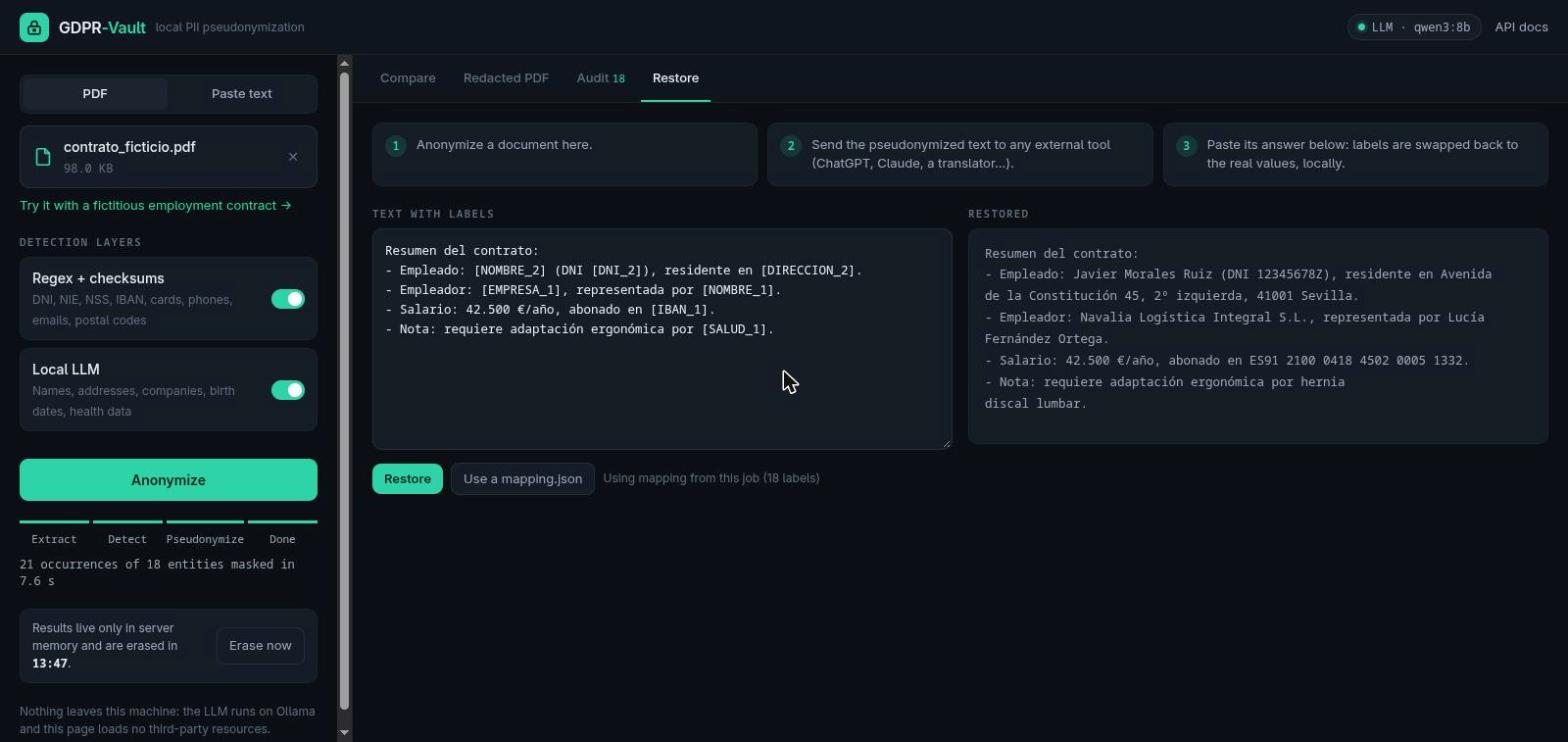
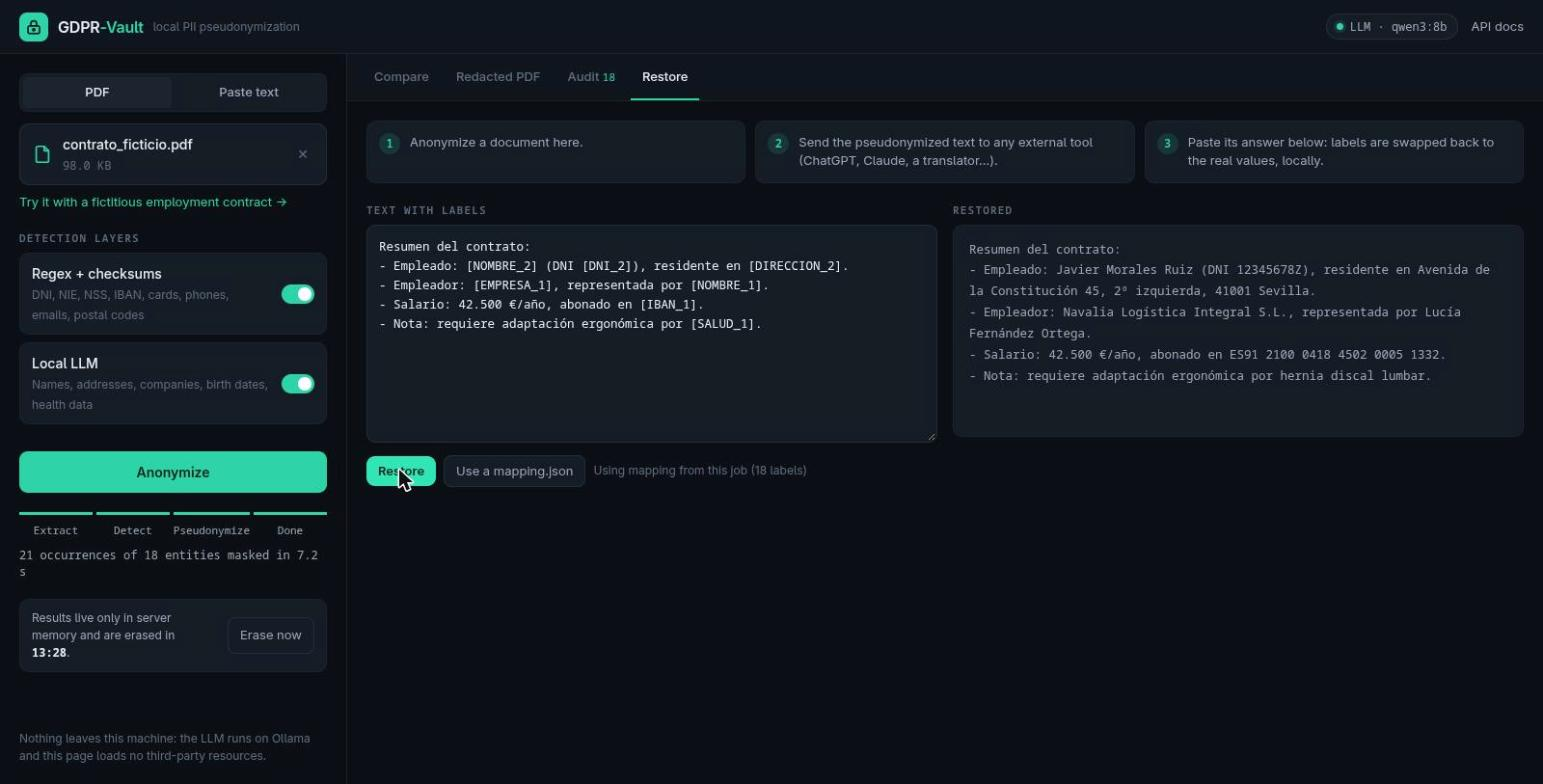
docs: demo GIF, evaluation results and refreshed screenshots

diff --git a/README.md b/README.md
@@ -5,13 +5,16 @@ Upload a contract, payslip or CV. GDPR-Vault finds the personal data with checks
 patterns plus a local LLM, replaces each item with a stable label such as `[NOMBRE_1]` or `[DNI_1]`,
 and returns a properly redacted PDF. Nothing is sent to an external service.
 
+On the labelled evaluation set it masks **99.5% of personal-data characters** and nothing
+that isn't personal data, at about 5 seconds per page on a laptop GPU ([evaluation](#evaluation)).
+
 ![Python](https://img.shields.io/badge/Python-3.12-3776AB?logo=python&logoColor=white)
 ![FastAPI](https://img.shields.io/badge/FastAPI-async-009688?logo=fastapi&logoColor=white)
 ![Ollama](https://img.shields.io/badge/LLM-Ollama%20(local)-black)
 [![CI](https://github.com/davidgj98/gdpr-vault/actions/workflows/ci.yml/badge.svg)](https://github.com/davidgj98/gdpr-vault/actions/workflows/ci.yml)
 ![License](https://img.shields.io/badge/license-MIT-blue)
 
-![Side-by-side comparison of the original and the pseudonymized contract](docs/img/compare.jpg)
+![Demo: a contract is uploaded, its personal data detected and pseudonymized, the PDF redacted and the labels restored](docs/img/demo.gif)
 
 ---
 
@@ -50,9 +53,9 @@ GDPR Art. 4(5). See [GDPR_NOTES.md](GDPR_NOTES.md) for how the design maps to th
 - **Privacy by design**: results are kept in memory and erased after a TTL (15 min by default) or on demand. The UI is held to a strict CSP with no third-party requests (not even web fonts), and API responses are sent with `Cache-Control: no-store`.
 - **Fails loudly**: if Ollama is down, the job still masks the structured identifiers, but the UI and the audit log say plainly that names and addresses were **not** checked.
 
-| Redacted PDF | Audit log | Restore |
-|---|---|---|
-| ![Redacted PDF](docs/img/redacted-pdf.jpg) | ![Audit](docs/img/audit.jpg) | ![Restore](docs/img/restore.jpg) |
+| Compare | Redacted PDF | Audit log | Restore |
+|---|---|---|---|
+| ![Compare](docs/img/compare.jpg) | ![Redacted PDF](docs/img/redacted-pdf.jpg) | ![Audit](docs/img/audit.jpg) | ![Restore](docs/img/restore.jpg) |
 
 ## Quick start
 
@@ -65,7 +68,7 @@ docker compose up --build          # add  -f docker-compose.yml -f docker-compos
 
 Open <http://localhost:8000> and click **"Try it with a fictitious employment contract"**.
 
-The first start downloads the model (`qwen2.5:7b`, about 4.7 GB) into a volume. While that runs,
+The first start downloads the model (`qwen3:8b`, about 5.2 GB) into a volume. While that runs,
 the header shows the LLM as unavailable and the app works in regex-only mode.
 
 ### Local development
@@ -73,9 +76,10 @@ the header shows the LLM as unavailable and the app works in regex-only mode.
 ```bash
 python -m venv .venv && source .venv/bin/activate
 pip install -r requirements-dev.txt
-ollama pull qwen2.5:7b             # or any instruction-tuned model, see .env.example
+ollama pull qwen3:8b               # or any instruction-tuned model, see .env.example
 uvicorn app.main:app --reload
-pytest                             # 55 tests; the LLM is mocked, so Ollama is not needed
+pytest                             # 56 tests; the LLM is mocked, so Ollama is not needed
+python eval/evaluate.py             # precision / recall against the labelled set (needs Ollama)
 ```
 
 ## How it works
@@ -142,17 +146,37 @@ app/
 frontend/            static UI (vanilla JS, no build step, no external assets)
 samples/             generator for the synthetic demo contract
 tests/               regex, anonymizer and end-to-end API tests (LLM mocked)
+eval/                labelled documents + precision/recall script
 ```
 
-## Measured performance
+## Evaluation
 
-On the sample contract (one A4 page, 18 entities), RTX 3070 Laptop with 8 GB VRAM:
+`eval/evaluate.py` measures the pipeline against two hand-labelled synthetic documents with 32
+personal-data items: the demo contract (PDF) and an HR email (text). The email includes traps that
+must **not** be masked: a case number, a law, amounts, a tax form number and a public body.
 
-| Model | Time (warm) | Notes |
-|---|---|---|
-| `qwen2.5:3b` | about 7 s | Good recall; mislabels some IDs, but the regex priority rule fixes them |
-| `qwen3:8b` | about 8 s | Best results in testing; also catches the date of birth and the health data |
-| regex only | < 50 ms | Structured identifiers only |
+```bash
+python eval/evaluate.py qwen2.5:3b qwen2.5:7b qwen3:8b
+```
+
+Results on an RTX 3070 Laptop GPU (8 GB VRAM), models warm:
+
+| Detector | Entity precision | Entity recall | Entity F1 | PII characters masked | Masked characters that were PII | Time / doc |
+|---|---|---|---|---|---|---|
+| regex only | 83% | 47% | 0.60 | 38.8% | 100% | < 1 ms |
+| `qwen2.5:3b` | 82% | 72% | 0.77 | 84.7% | 100% | 6.1 s |
+| `qwen2.5:7b` | 100% | 91% | 0.95 | 97.2% | 100% | 8.2 s |
+| **`qwen3:8b`** (default) | **100%** | **97%** | **0.98** | **99.5%** | **100%** | **5.3 s** |
+
+- **Entity level** is strict: splitting an address into two pieces counts as one miss plus two
+  false positives. The regex-only "false positives" are postal codes that belong to an address
+  labelled as a whole.
+- **Character level** answers what matters for an anonymizer: how much of the personal data ends up hidden,
+  and whether anything else was masked. No detector masked anything outside the labelled data.
+- **Why `qwen3:8b` is the default**: it scores best on every metric and was also the fastest.
+  The only item it misses is a first name alone in an email signature ("Raúl").
+- This evaluation set is the one used to tune the prompt, so the figures are optimistic. Treat them as
+  a regression check, not as a benchmark of real-world recall.
 
 ## Limitations
 
